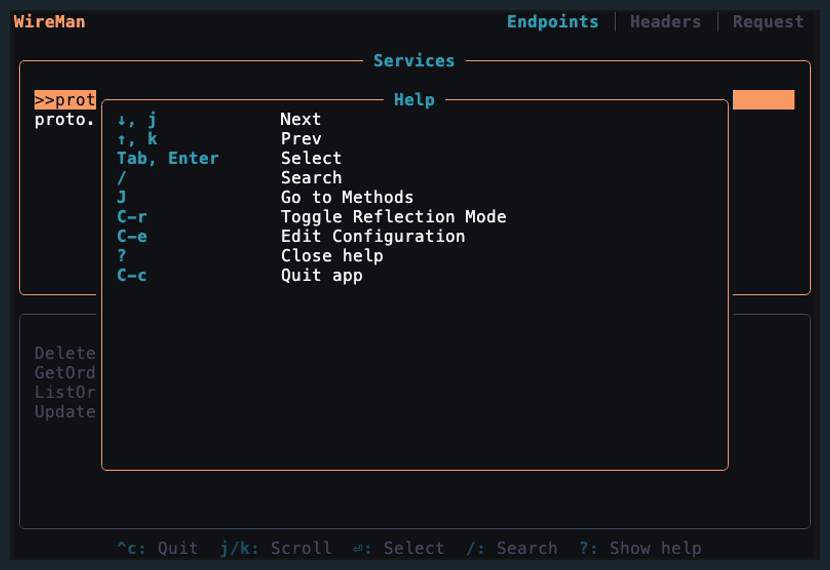
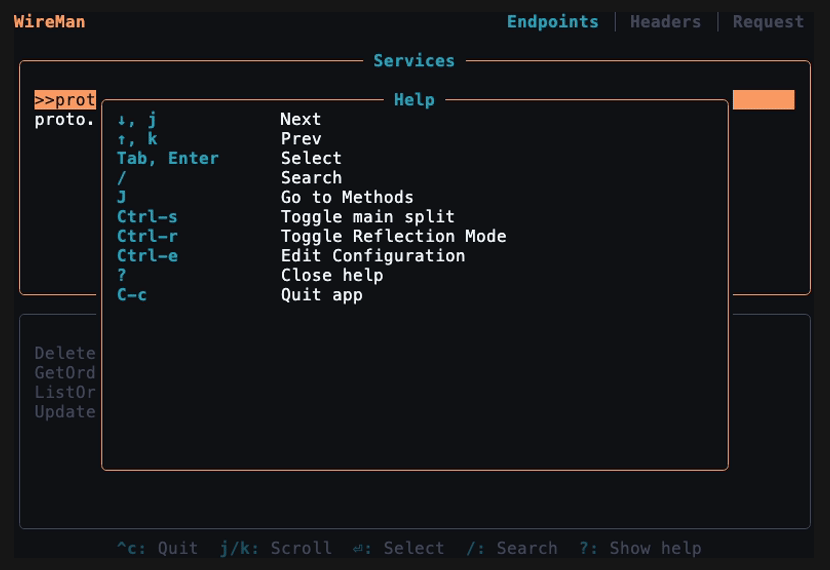
update tape

Changed region(s): [[0.3313, 0.3579, 0.6325, 0.5368], [0.1205, 0.3579, 0.2108, 0.5368]]

diff --git a/wireman/src/events/selection/methods.rs b/wireman/src/events/selection/methods.rs
@@ -123,7 +123,7 @@ impl EventHandler for MethodsSelectionEventsHandler {
         let method_selected = ctx.selection.borrow().selected_method().is_some();
         let filter_active = ctx.selection.borrow_mut().methods_filter.is_some();
         let mut map = vec![(
-            KeyEvent::alt(KeyCode::Char('s')),
+            KeyEvent::ctrl(KeyCode::Char('s')),
             MethodsSelectionEvents::ToggleMainSplit,
         )];
         if method_selected {

diff --git a/wireman/src/events/selection/services.rs b/wireman/src/events/selection/services.rs
@@ -124,7 +124,7 @@ impl EventHandler for ServicesSelectionEventsHandler {
                 ServicesSelectionEvents::GoToMethods,
             ),
             (
-                KeyEvent::alt(KeyCode::Char('s')),
+                KeyEvent::ctrl(KeyCode::Char('s')),
                 ServicesSelectionEvents::ToggleMainSplit,
             ),
         ]);
